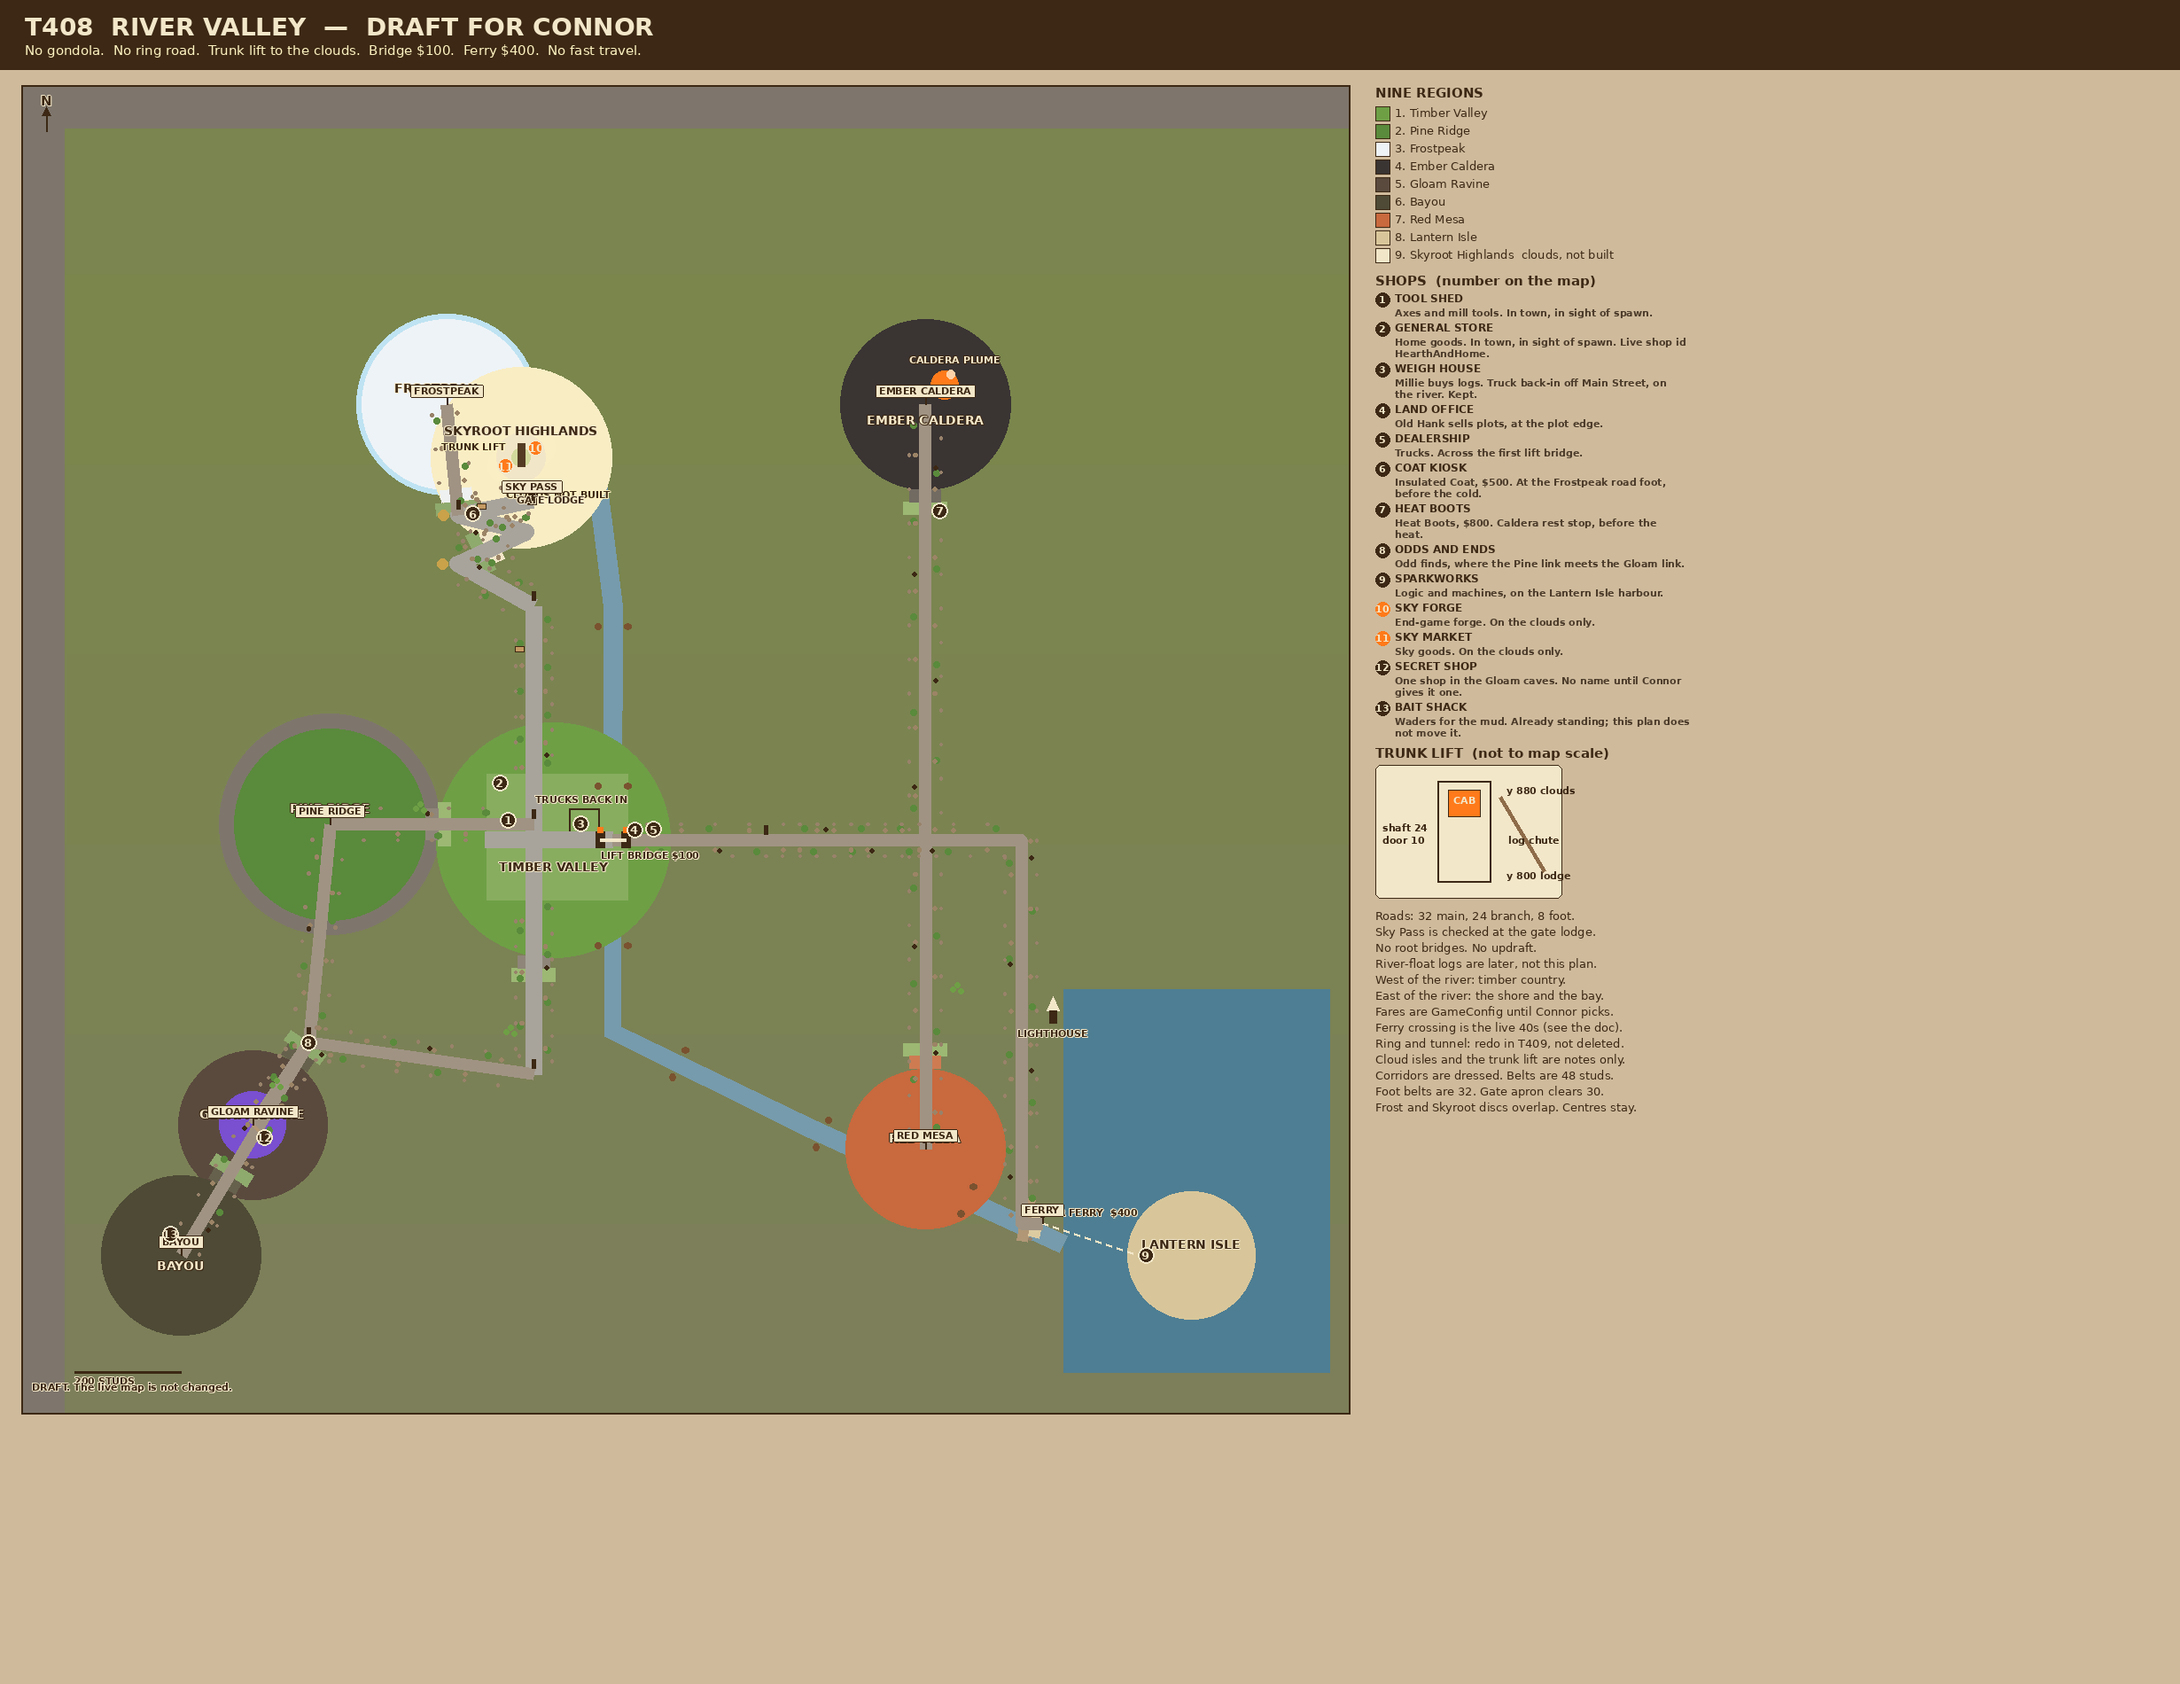
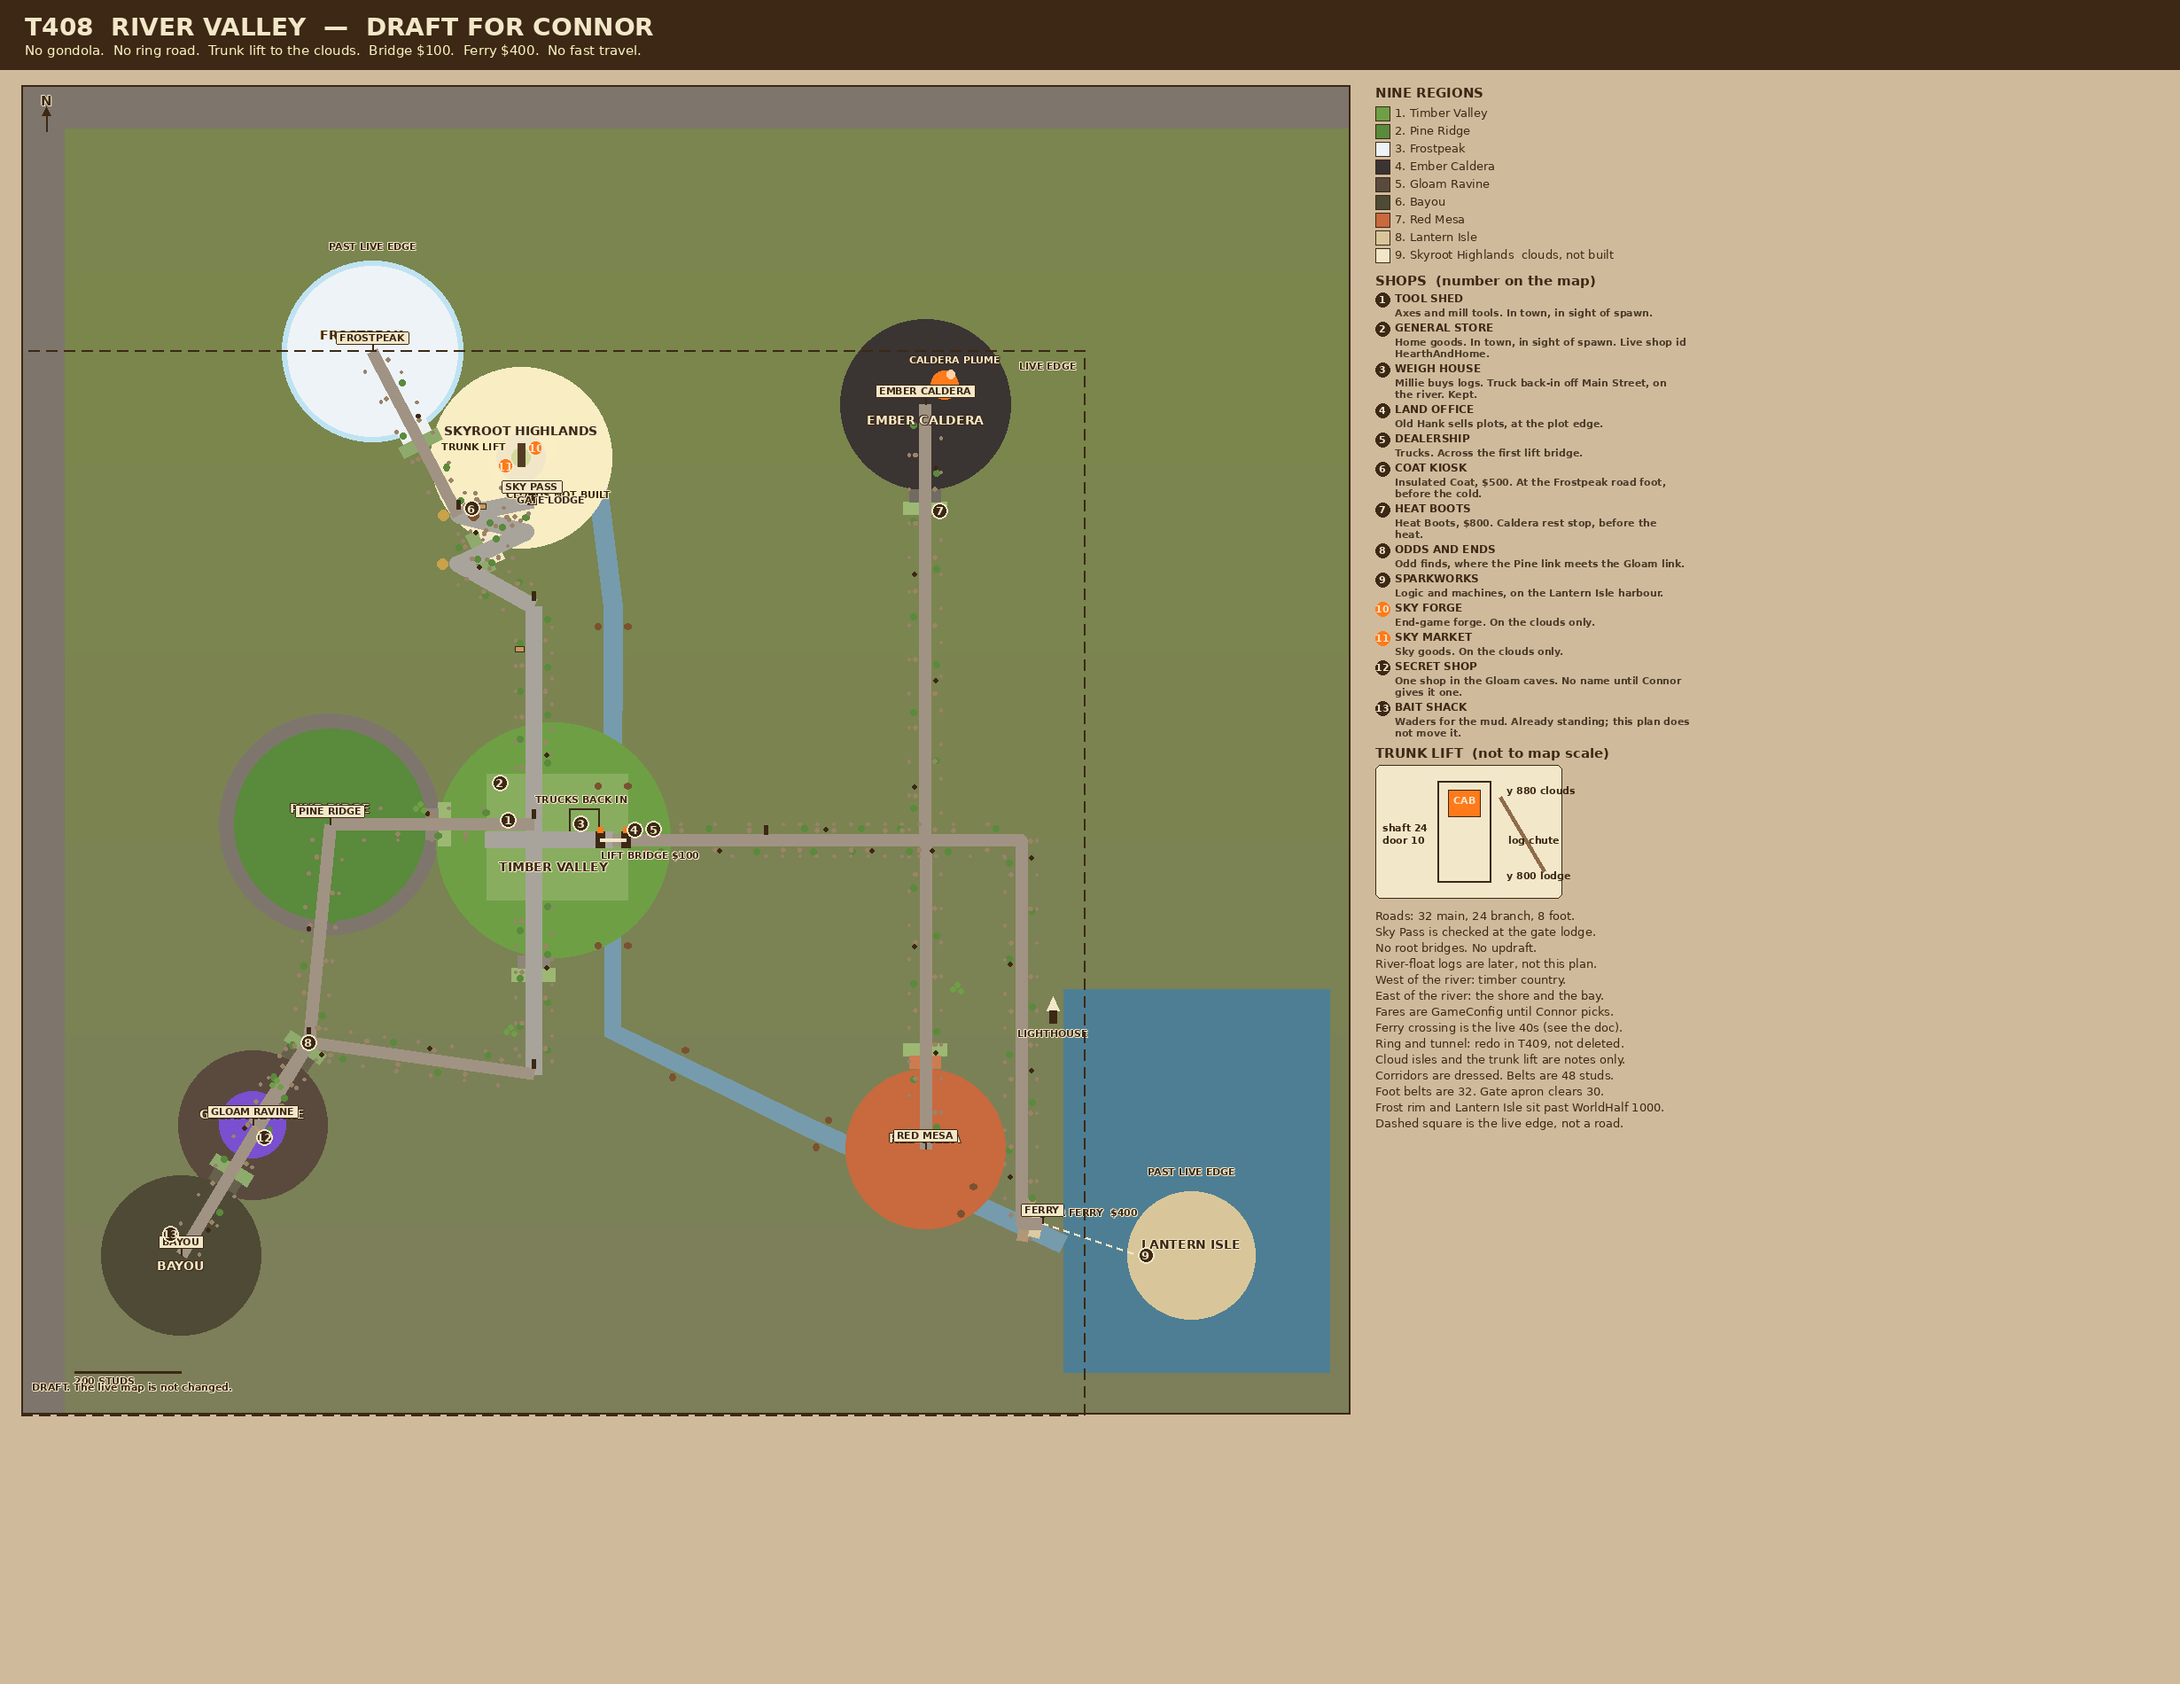
phase-2: move Frostpeak clear of Skyroot
Builder lock puts Frostpeak at (-340, 1000), radius 160, ground.
Skyroot and the gate lodge stay. The frost road still leaves the
switchback hairpin. OverlapHits is empty, and the frost rim is
past WorldHalf the same way Lantern Isle is.

Changed region(s): [[0.1236, 0.1242, 0.2472, 0.3105], [0.6488, 0.6521, 0.7415, 0.6832], [0.5252, 0.6832, 0.5561, 0.7142]]

diff --git a/tools/preview/t408_map.py b/tools/preview/t408_map.py
@@ -23,8 +23,9 @@ OUT = os.path.join(ROOT, "previews", "t408")
 FONT = "/usr/share/fonts/truetype/dejavu/DejaVuSans.ttf"
 FONTB = "/usr/share/fonts/truetype/dejavu/DejaVuSans-Bold.ttf"
 
-# Plan bounds. The isle sits past the live WorldHalf, so the picture is
-# wider than the current square. North is up. One scale, no stretch.
+# Plan bounds. Lantern Isle and the Frostpeak rim sit past the live
+# WorldHalf (1000), so the picture is wider than the current square.
+# North is up. One scale, no stretch.
 X0 = -1000.0
 Z1 = 1500.0
 SPAN = 2500.0
@@ -320,6 +321,35 @@ def draw_overview(plan: dict) -> Image.Image:
     draw.rectangle((lx - 4, ly, lx + 4, ly + 14), fill=ink)
     halo(draw, (lx, ly + 22), "LIGHTHOUSE", tiny, ink, cream, "mt")
 
+    # Live square. A dashed edge, not a road. Frost's rim and the isle cross it.
+    def dashed(a, b, dash=12, gap=8):
+        ax, ay = a
+        bx, by = b
+        dx, dy = bx - ax, by - ay
+        length = (dx * dx + dy * dy) ** 0.5
+        if length < 1:
+            return
+        ux, uy = dx / length, dy / length
+        t = 0.0
+        while t < length:
+            t2 = min(length, t + dash)
+            draw.line(
+                [(ax + ux * t, ay + uy * t), (ax + ux * t2, ay + uy * t2)],
+                fill=ink,
+                width=2,
+            )
+            t = t2 + gap
+
+    half = 1000.0
+    live = [m.px(x, z) for x, z in ((-half, -half), (half, -half), (half, half), (-half, half), (-half, -half))]
+    for i in range(4):
+        dashed(live[i], live[i + 1])
+    halo(draw, m.px(half - 70, half - 28), "LIVE EDGE", tiny, ink, cream, "mm")
+    for region in plan["regions"]:
+        if region.get("pastLive"):
+            label_at = (region["x"], region["z"] + region["radius"] + 36)
+            halo(draw, m.px(*label_at), "PAST LIVE EDGE", tiny, ink, cream, "mm")
+
     # Region names.
     name_font = load_font(FONTB, 14)
     nudges = {
@@ -437,7 +467,8 @@ def draw_overview(plan: dict) -> Image.Image:
         "Cloud isles and the trunk lift are notes only.",
         "Corridors are dressed. Belts are 48 studs.",
         "Foot belts are 32. Gate apron clears 30.",
-        "Frost and Skyroot discs overlap. Centres stay.",
+        "Frost rim and Lantern Isle sit past WorldHalf 1000.",
+        "Dashed square is the live edge, not a road.",
     ]
     for note in notes:
         draw.text((lx0, y), note, font=small, fill=ink)

diff --git a/docs/MAP_T408.md b/docs/MAP_T408.md
@@ -35,13 +35,13 @@ Locked, because the game or the brief already has the number:
 - Odds & Ends stays at the Pine/Gloam cross, (−460, −300).
 - The live ferry dock `(780, 136)` and the live isle centre stay until a build. The picture draws the ferry to the draft isle.
 
-Builder discs, for this picture only. `OverlapHits()` is empty: same-layer discs may kiss by 12 studs (Bayou and Gloam miss a tangent by about 10, and those centres stay). Skyroot is the cloud layer, so it may sit over Frostpeak in plan. Connor can move them before anyone builds terrain:
+Builder discs, for this picture only. `OverlapHits()` is empty: same-layer discs may kiss by 12 studs (Bayou and Gloam miss a tangent by about 10, and those centres stay). Connor can move the rest before anyone builds terrain:
 
 | Region | Centre | r | Layer |
 |---|---|---|---|
 | Timber Valley | (0, 80) | 220 | ground |
 | Pine Ridge | (−420, 110) | 180 | ground |
-| Frostpeak | (−200, 900) | 160 | ground |
+| Frostpeak | (−340, 1000) | 160 | ground |
 | Ember Caldera | (700, 900) | 160 | ground |
 | Gloam Ravine | (−565, −455) | 140 | ground |
 | Bayou | (−700, −700) | 150 | ground |
@@ -51,7 +51,7 @@ Builder discs, for this picture only. `OverlapHits()` is empty: same-layer discs
 
 Skyroot Highlands is the ground summit. Walkable cloud isles are separate `CloudIsle` rows, annotated and not built. The gate lodge is (−40, 720), facing north, on the switchback just south of the summit. Its height is `TerrainGen.HeightAt` when T409 builds it. This plan stores the XZ.
 
-Frostpeak (−200, 900, 160) and Skyroot are both ground, and the locked discs overlap by about 158 studs. The centres stay. `OverlapHits()` is empty apart from that pair, which `KnownOverlap` records for Connor.
+Frostpeak is (−340, 1000), radius 160, layer ground. Skyroot stays (−60, 800), radius 170, layer ground. The centres are about 344 studs apart, so the discs clear by about 14 studs. `OverlapHits()` is empty. There is no `KnownOverlap`. The Frostpeak centre sits on the north edge of the live square. Radius 160 carries the rim to z 1160, past `WorldHalf` 1000. That is the same class as Lantern Isle: drawn on this picture, not built, until T409 grows the map.
 
 - Spawn stays (0, 0.5, 40). The sawmill stays (0, 110).
 - River centre x = 113 (26 studs east of the sell floor's east edge). Channel half-width 18. The west bank stays off the sell floor.
@@ -61,7 +61,7 @@ Frostpeak (−200, 900, 160) and Skyroot are both ground, and the locked discs o
 
 ## The river and the bay
 
-The channel starts east of Frostpeak, runs south on x = 113 past the Weigh House, and opens into the southeast bay (water east of x 960). West of the channel is the timber country: town, Pine Ridge, Frostpeak, the Skyroot, Gloam Ravine, the Bayou. East of it is the shore the Dealership, the plots, the Caldera and Red Mesa sit on, and then the bay. Lantern Isle is in that bay, past the live world edge. The lighthouse mark is on the east headland. The live tower is not moved.
+The channel starts east of Frostpeak, runs south on x = 113 past the Weigh House, and opens into the southeast bay (water east of x 960). West of the channel is the timber country: town, Pine Ridge, Frostpeak, the Skyroot, Gloam Ravine, the Bayou. East of it is the shore the Dealership, the plots, the Caldera and Red Mesa sit on, and then the bay. Lantern Isle is in that bay, past the live world edge. Frostpeak's north rim is past that same edge. The lighthouse mark is on the east headland. The live tower is not moved.
 
 One lift bridge, at (113, 80), where the east road leaves town. Towers on the two banks. $100. The Caldera road branches off on the east bank, so it does not need a second bridge and a second fare. Logs on the river are later. This plan does not float them.
 
@@ -73,7 +73,7 @@ One lift bridge, at (113, 80), where the east road leaves town. Towers on the tw
 | Main Street | 32 | Town street to the one lift bridge |
 | Skyroot Road | 32 | Switchback from the trunk's north end to the gate lodge (−40, 720). Sign: SKY PASS |
 | Pine Road | 24 | Trunk to Pine Ridge |
-| Frost Road | 24 | Switchback to Frostpeak. Coat kiosk at the foot |
+| Frost Road | 24 | From the switchback hairpin (−178, 691) to Frostpeak (−340, 1000). Coat kiosk at the foot. The rest of the road network is unchanged |
 | Bay Road | 24 | Bridge, east bank, mainland dock for the picture ferry |
 | Dealership Spur | 24 | Up from the bay road to the hall door |
 | Caldera Road | 24 | East bank north to the caldera. Heat Boots at the rest stop |
@@ -95,7 +95,7 @@ There is no ring, and no truck tunnel, on this plan. The live ring and the live 
 | 3 | Weigh House (53, 111) | Millie buys logs. Truck back-in. Kept. |
 | 4 | Land Office (153.5, 100) | Old Hank, at the plot edge. |
 | 5 | Dealership (189.25, 100.3) | Trucks, across the first lift bridge. |
-| 6 | Coat kiosk (−152, 713) | Insulated Coat, $500, at the Frostpeak road foot. |
+| 6 | Coat kiosk (−153, 704) | Insulated Coat, $500, at the Frostpeak road foot. |
 | 7 | Heat Boots (728, 700) | Heat Boots, $800, at the caldera rest stop. |
 | 8 | Odds & Ends (−460, −300) | Where the Pine link meets the Gloam road. |
 | 9 | Sparkworks (1115, −700) | On the draft isle harbour. The live shop at (135, 132) stays until a build. |
@@ -157,10 +157,10 @@ This is a picture. Studio has nothing new to walk. Look at `previews/t408/overvi
 3. The draft prices the bridge at `TollFee` $100 and the ferry at `FerryFare` $400. An earlier note said both free for V1. The picture uses the two live keys. Which do you want?
 4. The ground court's keeper, temper spot and four sockets are MustKeep. Move them onto the cloud forge, or keep a court on the ground?
 5. The north toll counter is also MustKeep. Is the town lift bridge that toll moved, or do both crossings stay?
-6. Locked: gate lodge (−40, 720) facing north. Skyroot radius 170, layer ground. Frostpeak and Skyroot overlap by about 158 studs. Shrink one before T409, or keep the shared shoulder?
+6. Locked: gate lodge (−40, 720) facing north. Skyroot (−60, 800), radius 170, layer ground. Frostpeak (−340, 1000), radius 160, layer ground. The discs clear. Frostpeak's north rim passes WorldHalf 1000, the same class as Lantern Isle.
 7. y 800→880 is an 80-stud ride. A haul grade of 0.2 cannot climb to world-height 800 inside this square (that wants about 4,000 studs of road). Is 800 the height up the trunk from the lodge, or the world height of the lodge?
 8. Three cloud isles are drawn and not built. Root bridges are out. Do you still want separate walkable isles, and if so how do you cross?
-9. Lantern Isle at (1200, −700) sits outside the live world (WorldHalf 1000). The picture ferry runs from (920, −640) to (1100, −700). The live dock stays at (780, 136). Grow the map in T409?
+9. Lantern Isle at (1200, −700) sits outside the live world (WorldHalf 1000). Frostpeak's north rim does too (centre on z 1000, rim at z 1160). Same class: the picture shows both, and neither is built. The picture ferry runs from (920, −640) to (1100, −700). The live dock stays at (780, 136). Grow the map in T409?
 10. The secret shop has no name and no stock. What is it, and what does it sell?
 11. Sparkworks moves to the harbour only when this plan is built. The live shop stays at (135, 132). Confirm the move.
 12. The meadow lookout: keep it as a view of town, or remove it with the court?

diff --git a/STATUS.md b/STATUS.md
@@ -21,7 +21,7 @@ block the build; #157 client audit; #158 world first look; #159 store interiors:
 
 ## T408 map plan (draft, not built)
 
-Connor approved the nine-region picture with notes. It still does not change the live map: `TerrainGen`, `WorldPlan` and `MapBuilder` do not read it. Skyroot Highlands is the ground summit at (−60, 800), radius 170. The gate lodge is (−40, 720), facing north. Cloud isles stay separate notes. Frostpeak and Skyroot overlap on the ground; both centres stay, and `KnownOverlap` records it. Corridors carry roadside markers and 48-stud blend belts (32 on a foot road) for T409. The picture is `previews/t408/overview.png`. Removals stay cards, not deletions. The ring road and the truck tunnel stay a T409 redo. Studio has nothing new to walk.
+Connor approved the nine-region picture with notes. It still does not change the live map: `TerrainGen`, `WorldPlan` and `MapBuilder` do not read it. Skyroot Highlands is the ground summit at (−60, 800), radius 170. The gate lodge is (−40, 720), facing north. Cloud isles stay separate notes. Frostpeak is (−340, 1000), radius 160, layer ground, clear of Skyroot. Its north rim passes WorldHalf 1000, the same class as Lantern Isle. `OverlapHits()` is empty. Corridors carry roadside markers and 48-stud blend belts (32 on a foot road) for T409. The picture is `previews/t408/overview.png`. Removals stay cards, not deletions. The ring road and the truck tunnel stay a T409 redo. Studio has nothing new to walk.
 
 **Stages:** with #138 on main the `Stage:S1` to `S8` keys are written (`MilestoneService.CheckStages`); the stage (`StageOf`)
 still also comes from the best axe and gear. S8 (Master Timber) is set only by its key: deriving it from a full plot is awaiting
